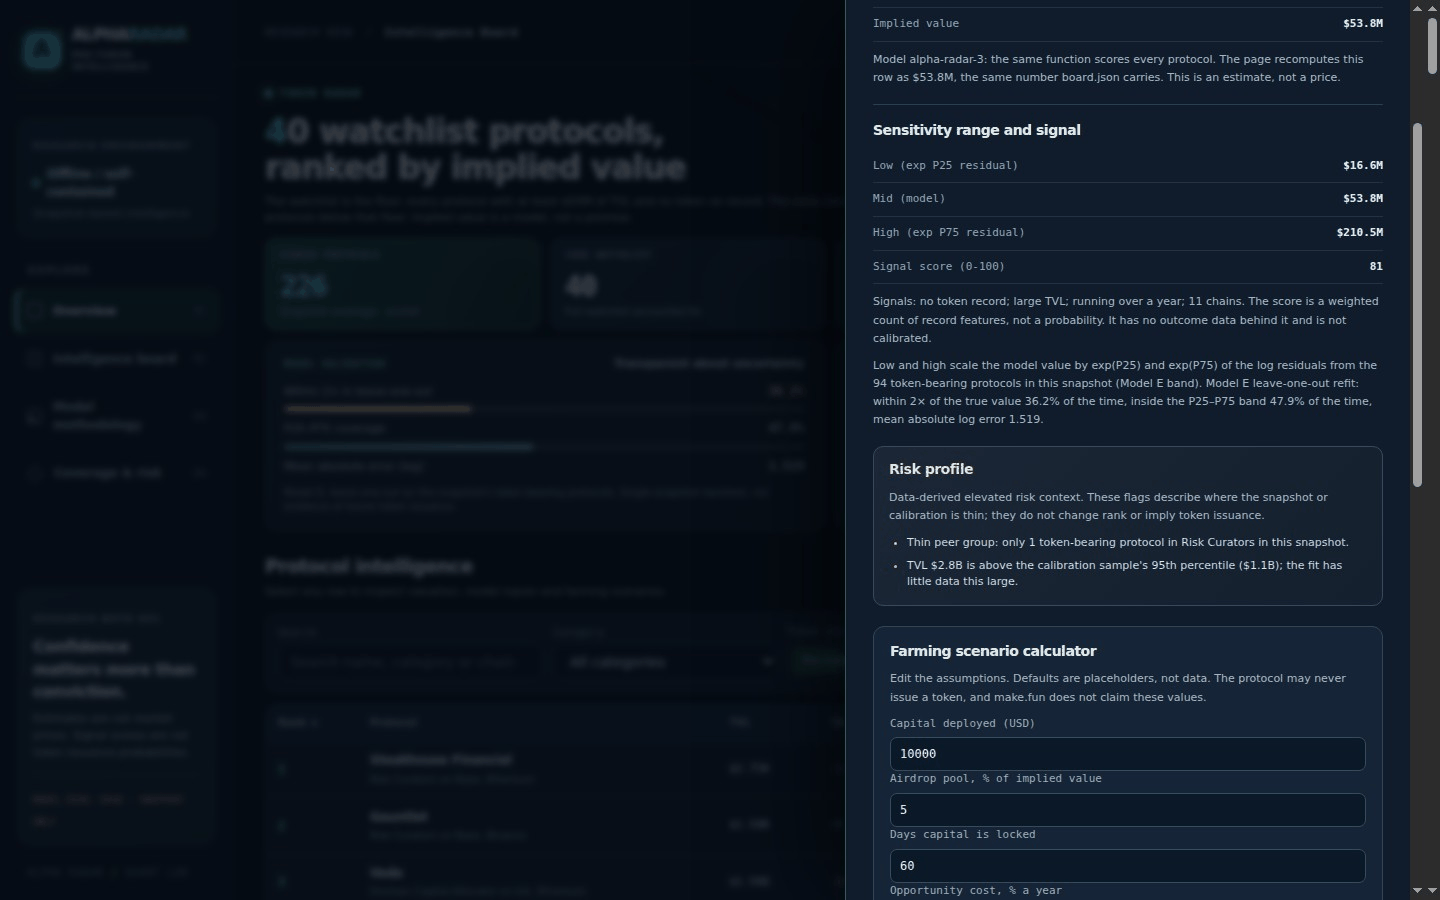
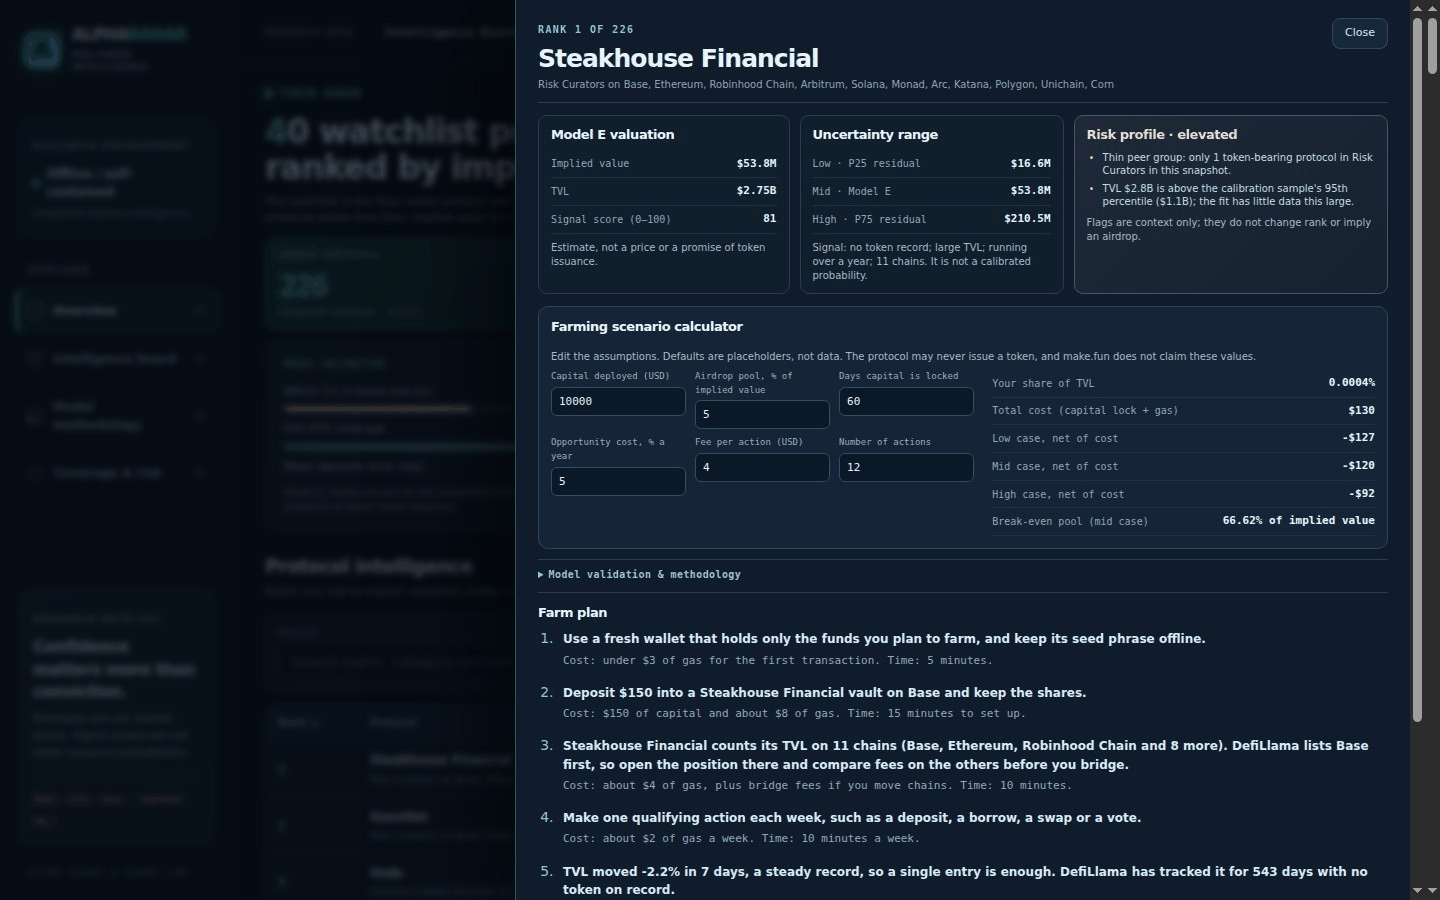
ui: compact protocol detail evidence view

Changed region(s): [[0.3438, 0.0, 1.0, 1.0], [0.9375, 0.0, 1.0, 0.1244], [0.625, 0.0, 0.6562, 0.0311]]

diff --git a/dashboard/app.css b/dashboard/app.css
@@ -81,16 +81,14 @@ td:nth-child(1){color:#7f9cb1;font:12px var(--font-num)}tbody tr:nth-child(-n+3)
 .status{display:inline-flex;align-items:center;gap:6px;color:#a4d5c3;background:#17372f;border:1px solid #2c5648;border-radius:5px;padding:4px 7px;font-size:10px;white-space:nowrap}.status:before{content:"";width:5px;height:5px;background:#66dcb6;border-radius:50%}
 .model{margin-top:13px;padding:18px 21px;display:grid;gap:8px}.model h2{font-size:16px}.model .formula{font:11px/1.65 var(--font-num);color:#a8e3d1;border-radius:7px;background:#0b1823;border:1px solid #233d43;padding:12px;overflow-wrap:anywhere}
 .empty{padding:44px;display:grid;justify-items:center;gap:12px;text-align:center}.empty p{color:#91a4b6}.button{border:1px solid #33495b;background:#18283a;color:#c8e7f3;border-radius:8px;padding:9px 15px}.button.primary{border-color:#2d806e;background:#186456;color:#e6fff5}
-.detail{position:fixed;right:0;top:0;bottom:0;width:min(580px,94vw);padding:23px 27px 35px;margin:0 0 0 auto;max-height:100%;overflow-y:auto;background:#101c2b;color:var(--ink);border:0;border-left:1px solid #35604f;box-shadow:-20px 0 90px rgba(0,0,0,.57)}.detail[hidden]{display:none}.detail::backdrop{background:rgba(4,9,16,.73);backdrop-filter:blur(3px)}
-.detail-head{display:flex;align-items:start;justify-content:space-between;gap:14px;padding-bottom:16px}.detail-head h2{font-size:27px;margin-top:8px;letter-spacing:-.04em}.detail-head .sub{font-size:11px;margin-top:4px}.detail .brand-name{font-size:10px}.close{height:34px;min-width:48px;border:1px solid #33495b;border-radius:8px;background:#17283b;font-size:11px;color:#d3e7f8;padding:0 12px}
-.detail-section{border-top:1px solid #2a3c50;padding:17px 0 0;margin-top:17px}.detail-section h3{font-size:14px;margin-bottom:10px;color:#eef9ff}
-.equation{display:grid;gap:0;font-family:var(--font-num);font-size:11px}.equation>div{display:flex;align-items:center;justify-content:space-between;gap:13px;padding:8px 0;border-bottom:1px solid #203145}.equation>div>span{color:#91a5ba;flex:1}.equation b{color:#e1f4ff;font-weight:600;text-align:right}.detail-section>.sub{font-size:11px;line-height:1.65;margin:9px 0;color:#a6b9c9}
-.risk-section{background:linear-gradient(135deg,rgba(44,52,69,.42),rgba(26,37,51,.42));border:1px solid #3a485b;border-radius:10px;padding:14px 15px 15px;margin-top:17px}.risk-section h3{color:#ffdaa0}.risk-flags{margin:10px 0 0;padding-left:18px;display:grid;gap:7px;color:#c8d7e4;font-size:11px;line-height:1.45}.risk-flags li::marker{color:var(--amber)}
+.detail{position:fixed;right:0;top:0;bottom:0;width:min(910px,94vw);padding:18px 22px 24px;margin:0 0 0 auto;max-height:100%;overflow-y:auto;background:#101c2b;color:var(--ink);border:0;border-left:1px solid #35604f;box-shadow:-20px 0 90px rgba(0,0,0,.57)}.detail[hidden]{display:none}.detail::backdrop{background:rgba(4,9,16,.73);backdrop-filter:blur(3px)}
+.detail-head{display:flex;align-items:start;justify-content:space-between;gap:14px;padding-bottom:10px;position:sticky;top:-18px;z-index:2;background:#101c2b;border-bottom:1px solid #2a3c50}.detail-head h2{font-size:25px;margin-top:5px;letter-spacing:-.04em}.detail-head .sub{font-size:10px;margin-top:3px}.detail .brand-name{font-size:10px}.close{height:31px;min-width:48px;border:1px solid #33495b;border-radius:8px;background:#17283b;font-size:11px;color:#d3e7f8;padding:0 12px}
+.detail-grid{display:grid;grid-template-columns:1fr 1.05fr 1.25fr;gap:10px;align-items:stretch}.detail-section{border-top:1px solid #2a3c50;padding:12px 0 0;margin-top:12px}.detail-card{border:1px solid #2a3c50;border-radius:9px;padding:11px 12px 10px;margin-top:12px;background:#111e2c}.detail-section h3{font-size:13px;margin-bottom:7px;color:#eef9ff}
+.equation{display:grid;gap:0;font-family:var(--font-num);font-size:10px}.equation>div{display:flex;align-items:center;justify-content:space-between;gap:9px;padding:5px 0;border-bottom:1px solid #203145}.equation>div>span{color:#91a5ba;flex:1}.equation b{color:#e1f4ff;font-weight:600;text-align:right}.detail-section>.sub{font-size:10px;line-height:1.42;margin:7px 0 0;color:#a6b9c9}
+.risk-section{background:linear-gradient(135deg,rgba(44,52,69,.55),rgba(26,37,51,.55));border-color:#4a5361}.risk-section h3{color:#ffdaa0}.risk-flags{margin:7px 0 0;padding-left:16px;display:grid;gap:4px;color:#c8d7e4;font-size:10px;line-height:1.35}.risk-flags li::marker{color:var(--amber)}
 .steps{margin:0;padding-left:20px;display:grid;gap:12px}.steps li{color:#6ee3c1;padding-left:5px}.steps li b{color:#d8eaf8;display:block;font-weight:600;font-size:12px}.cost{color:#93a8bb;font-size:11px;font-family:var(--font-num)}
-#sim{background:#152437;border:1px solid #304657;border-radius:11px;padding:16px!important;margin-top:20px}
-#sim label{display:flex;flex-direction:column;gap:5px;color:#98afbd;font-size:11px}#sim input{height:34px;font:12px var(--font-num);padding:7px 9px;border-radius:7px;border:1px solid #354c5b;background:#0b1827;color:#e9f3ff;min-width:0;width:100%}
-#sim .equation:nth-of-type(2){display:grid;grid-template-columns:1fr 1fr;gap:9px 12px;margin:13px 0}#sim .equation:nth-of-type(2)>div{padding:0;border:0;display:block}
-#sim .equation:nth-of-type(2)>div label{display:block}
+#sim{background:#152437;border:1px solid #304657;border-radius:10px;padding:12px!important;margin-top:12px;display:grid;grid-template-columns:1.05fr .95fr;column-gap:18px;align-items:start}#sim h3,#sim>p{grid-column:1/-1}#sim>p{margin-bottom:6px}#sim .equation:first-of-type{grid-column:2;grid-row:3;margin-top:0}#sim .equation:nth-of-type(2){grid-column:1;grid-row:3;display:grid;grid-template-columns:repeat(3,1fr);gap:7px 9px;margin:0}#sim .equation:nth-of-type(2)>div{padding:0;border:0;display:block}#sim .equation:nth-of-type(2)>div label{display:block}#sim label{display:flex;flex-direction:column;gap:3px;color:#98afbd;font-size:9px}#sim input{height:29px;font:11px var(--font-num);padding:5px 7px;border-radius:6px;border:1px solid #354c5b;background:#0b1827;color:#e9f3ff;min-width:0;width:100%}.detail-method{margin-top:10px;border-top:1px solid #2a3c50;padding-top:9px;color:#9aafc0}.detail-method summary{cursor:pointer;font:700 10px var(--font-num);letter-spacing:.04em;color:#83d9c0}.detail-method .sub{font-size:10px;line-height:1.45;margin:8px 0}
+@media(max-width:760px){.detail{width:100%;padding:18px}.detail-grid,#sim{grid-template-columns:1fr}.detail-card{margin-top:10px}#sim .equation:first-of-type,#sim .equation:nth-of-type(2){grid-column:auto;grid-row:auto}#sim .equation:nth-of-type(2){grid-template-columns:1fr 1fr}}
 .workspace-footer{display:flex;justify-content:space-between;gap:20px;padding:0 31px 26px;color:#526d83;font:9px var(--font-num);letter-spacing:.07em}
 .sample-ribbon{position:fixed;z-index:30;right:14px;bottom:14px;background:#dba24a;color:#10141b;border-radius:5px;padding:7px 11px;font:700 10px var(--font-num);box-shadow:0 5px 25px #0008}
 @media(max-width:1120px){.workspace{grid-template-columns:190px minmax(0,1fr)}.identity-copy small{font-size:7px}.shell{padding:20px}.workspace-bar{padding:0 20px}.lede{grid-template-columns:1fr}.facts{grid-template-columns:1fr 1fr}.radar-metrics{grid-template-columns:repeat(2,1fr)}}

diff --git a/dashboard/app.js b/dashboard/app.js
@@ -340,8 +340,8 @@
       input.addEventListener('input', function () { var v = parseFloat(input.value); inputs[f[0]] = isFinite(v) && v >= 0 ? v : 0; calc(); });
       fields.appendChild(el('label', null, el('span', { text: f[1] }), input));
     });
-    box.appendChild(fields);
     box.appendChild(out);
+    box.appendChild(fields);
     calc();
     return box;
   }
@@ -364,32 +364,36 @@
       ),
       el('button', { class: 'close', type: 'button', 'aria-label': 'Close details', text: 'Close', onclick: function () { dialog.close(); } })
     ));
-    dialog.appendChild(el('section', { class: 'detail-section' },
-      el('h3', { text: 'Implied value' }),
+    var valuation = el('section', { class: 'detail-section detail-card' },
+      el('h3', { text: 'Model E valuation' }),
       el('div', { class: 'equation' },
+        el('div', null, el('span', { text: 'Implied value' }), el('b', { class: 'num', text: fmtUsd(row.implied_value_usd) })),
         el('div', null, el('span', { text: 'TVL' }), el('b', { class: 'num', text: fmtUsd(row.tvl_usd) })),
-        el('div', null, el('span', { text: 'log(TVL)' }), el('b', { class: 'num', text: String(row.log_tvl) })),
-        el('div', null, el('span', { text: 'Implied value' }), el('b', { class: 'num', text: fmtUsd(row.implied_value_usd) }))
+        el('div', null, el('span', { text: 'Signal score (0–100)' }), el('b', { class: 'num', text: String(row.signal_score) }))
       ),
-      el('p', { class: 'sub', text: 'Model ' + DATA.model_version + ': the same function scores every protocol. The page recomputes this row as ' + fmtUsd(impliedOf(row, DATA.model)) + (impliedOf(row, DATA.model) === row.implied_value_usd ? ', the same number board.json carries.' : ', which differs from the board: the data would be stale.') + ' This is an estimate, not a price.' })
-    ));
-    dialog.appendChild(el('section', { class: 'detail-section' },
-      el('h3', { text: 'Sensitivity range and signal' }),
+      el('p', { class: 'sub', text: 'Estimate, not a price or a promise of token issuance.' })
+    );
+    var range = el('section', { class: 'detail-section detail-card' },
+      el('h3', { text: 'Uncertainty range' }),
       el('div', { class: 'equation' },
-        el('div', null, el('span', { text: 'Low (exp P25 residual)' }), el('b', { class: 'num', text: fmtUsd(row.implied_low_usd) })),
-        el('div', null, el('span', { text: 'Mid (model)' }), el('b', { class: 'num', text: fmtUsd(row.implied_value_usd) })),
-        el('div', null, el('span', { text: 'High (exp P75 residual)' }), el('b', { class: 'num', text: fmtUsd(row.implied_high_usd) })),
-        el('div', null, el('span', { text: 'Signal score (0-100)' }), el('b', { class: 'num', text: String(row.signal_score) }))
+        el('div', null, el('span', { text: 'Low · P25 residual' }), el('b', { class: 'num', text: fmtUsd(row.implied_low_usd) })),
+        el('div', null, el('span', { text: 'Mid · Model E' }), el('b', { class: 'num', text: fmtUsd(row.implied_value_usd) })),
+        el('div', null, el('span', { text: 'High · P75 residual' }), el('b', { class: 'num', text: fmtUsd(row.implied_high_usd) }))
       ),
-      el('p', { class: 'sub', text: 'Signals: ' + row.signal_note + '. The score is a weighted count of record features, not a probability. It has no outcome data behind it and is not calibrated.' }),
-      el('p', { class: 'sub', text: 'Low and high scale the model value by exp(P25) and exp(P75) of the log residuals from the ' + DATA.calibration.n + ' token-bearing protocols in this snapshot (Model E band). Model E leave-one-out refit: within 2× of the true value ' + DATA.calibration.e_loo_within_2x_pct + '% of the time, inside the P25–P75 band ' + DATA.calibration.e_loo_p25_p75_cov_pct + '% of the time, mean absolute log error ' + DATA.calibration.e_loo_mae_log.toFixed(3) + '.' })
-    ));
-    dialog.appendChild(el('section', { class: 'detail-section risk-section' },
-      el('h3', { text: 'Risk profile' }),
-      el('p', { class: 'sub', text: 'Data-derived ' + row.risk_level + ' risk context. These flags describe where the snapshot or calibration is thin; they do not change rank or imply token issuance.' }),
-      row.risk_flags.length ? el('ul', { class: 'risk-flags' }, row.risk_flags.map(function (flag) { return el('li', { text: flag }); })) : el('p', { class: 'sub', text: 'No additional snapshot risk flags were raised for this protocol.' })
-    ));
+      el('p', { class: 'sub', text: 'Signal: ' + row.signal_note + '. It is not a calibrated probability.' })
+    );
+    var risk = el('section', { class: 'detail-section risk-section detail-card' },
+      el('h3', { text: 'Risk profile · ' + row.risk_level }),
+      row.risk_flags.length ? el('ul', { class: 'risk-flags' }, row.risk_flags.map(function (flag) { return el('li', { text: flag }); })) : el('p', { class: 'sub', text: 'No additional snapshot risk flags were raised.' }),
+      el('p', { class: 'sub', text: 'Flags are context only; they do not change rank or imply an airdrop.' })
+    );
+    var summary = el('div', { class: 'detail-grid' }, valuation, range, risk);
+    dialog.appendChild(summary);
     dialog.appendChild(farmSimulator(row));
+    dialog.appendChild(el('details', { class: 'detail-method' },
+      el('summary', { text: 'Model validation & methodology' }),
+      el('p', { class: 'sub', text: 'Model ' + DATA.model_version + ' recomputes this row as ' + fmtUsd(impliedOf(row, DATA.model)) + '. The P25–P75 range comes from log residuals on ' + DATA.calibration.n + ' token-bearing protocols. Leave-one-out: within 2× ' + DATA.calibration.e_loo_within_2x_pct + '%, P25–P75 coverage ' + DATA.calibration.e_loo_p25_p75_cov_pct + '%, MAE ' + DATA.calibration.e_loo_mae_log.toFixed(3) + '. Snapshot-only validation is not evidence of future issuance.' })
+    ));
     dialog.appendChild(el('section', { class: 'detail-section' },
       el('h3', { text: 'Farm plan' }),
       el('ol', { class: 'steps' }, steps.map(function (s) {
